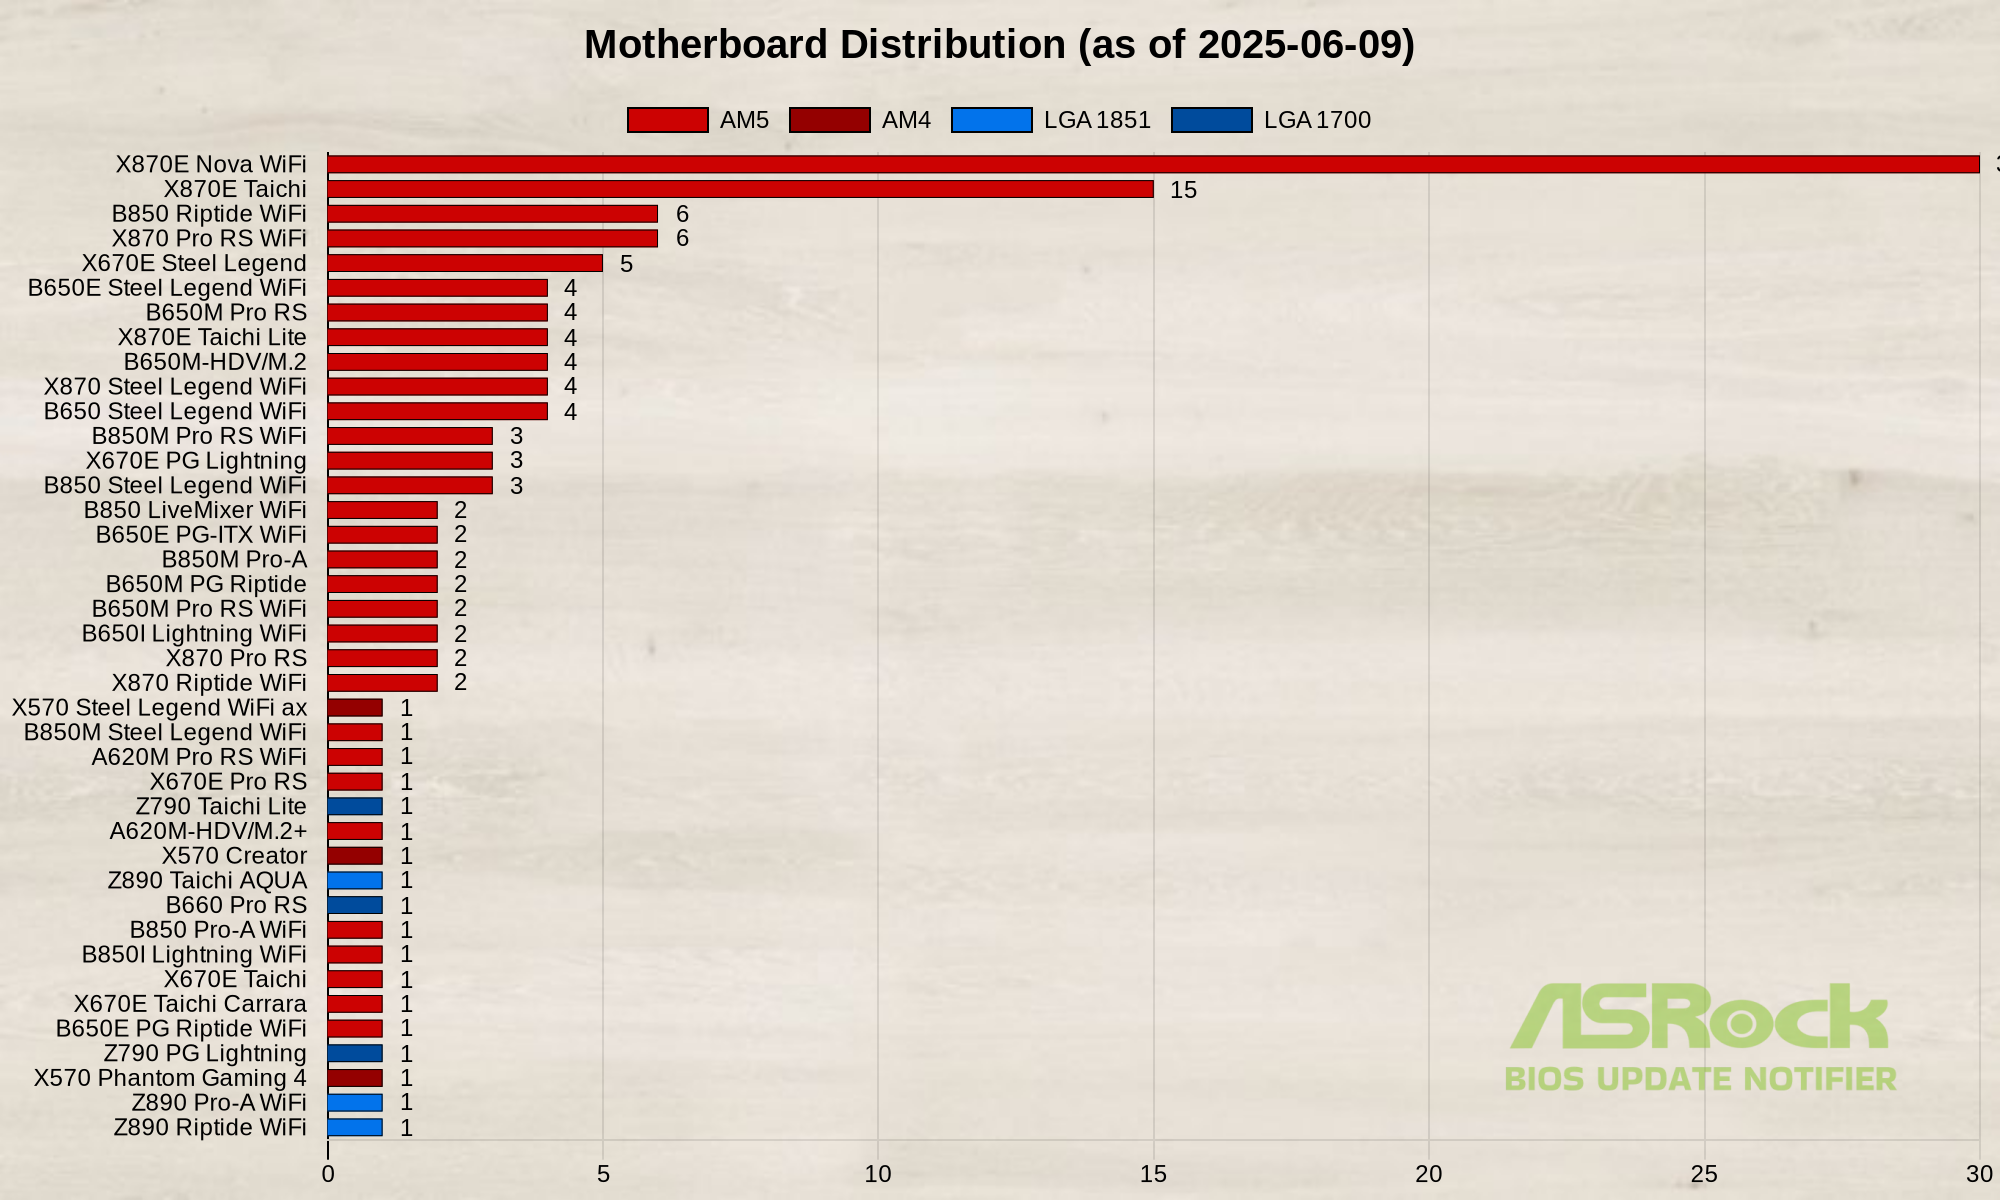
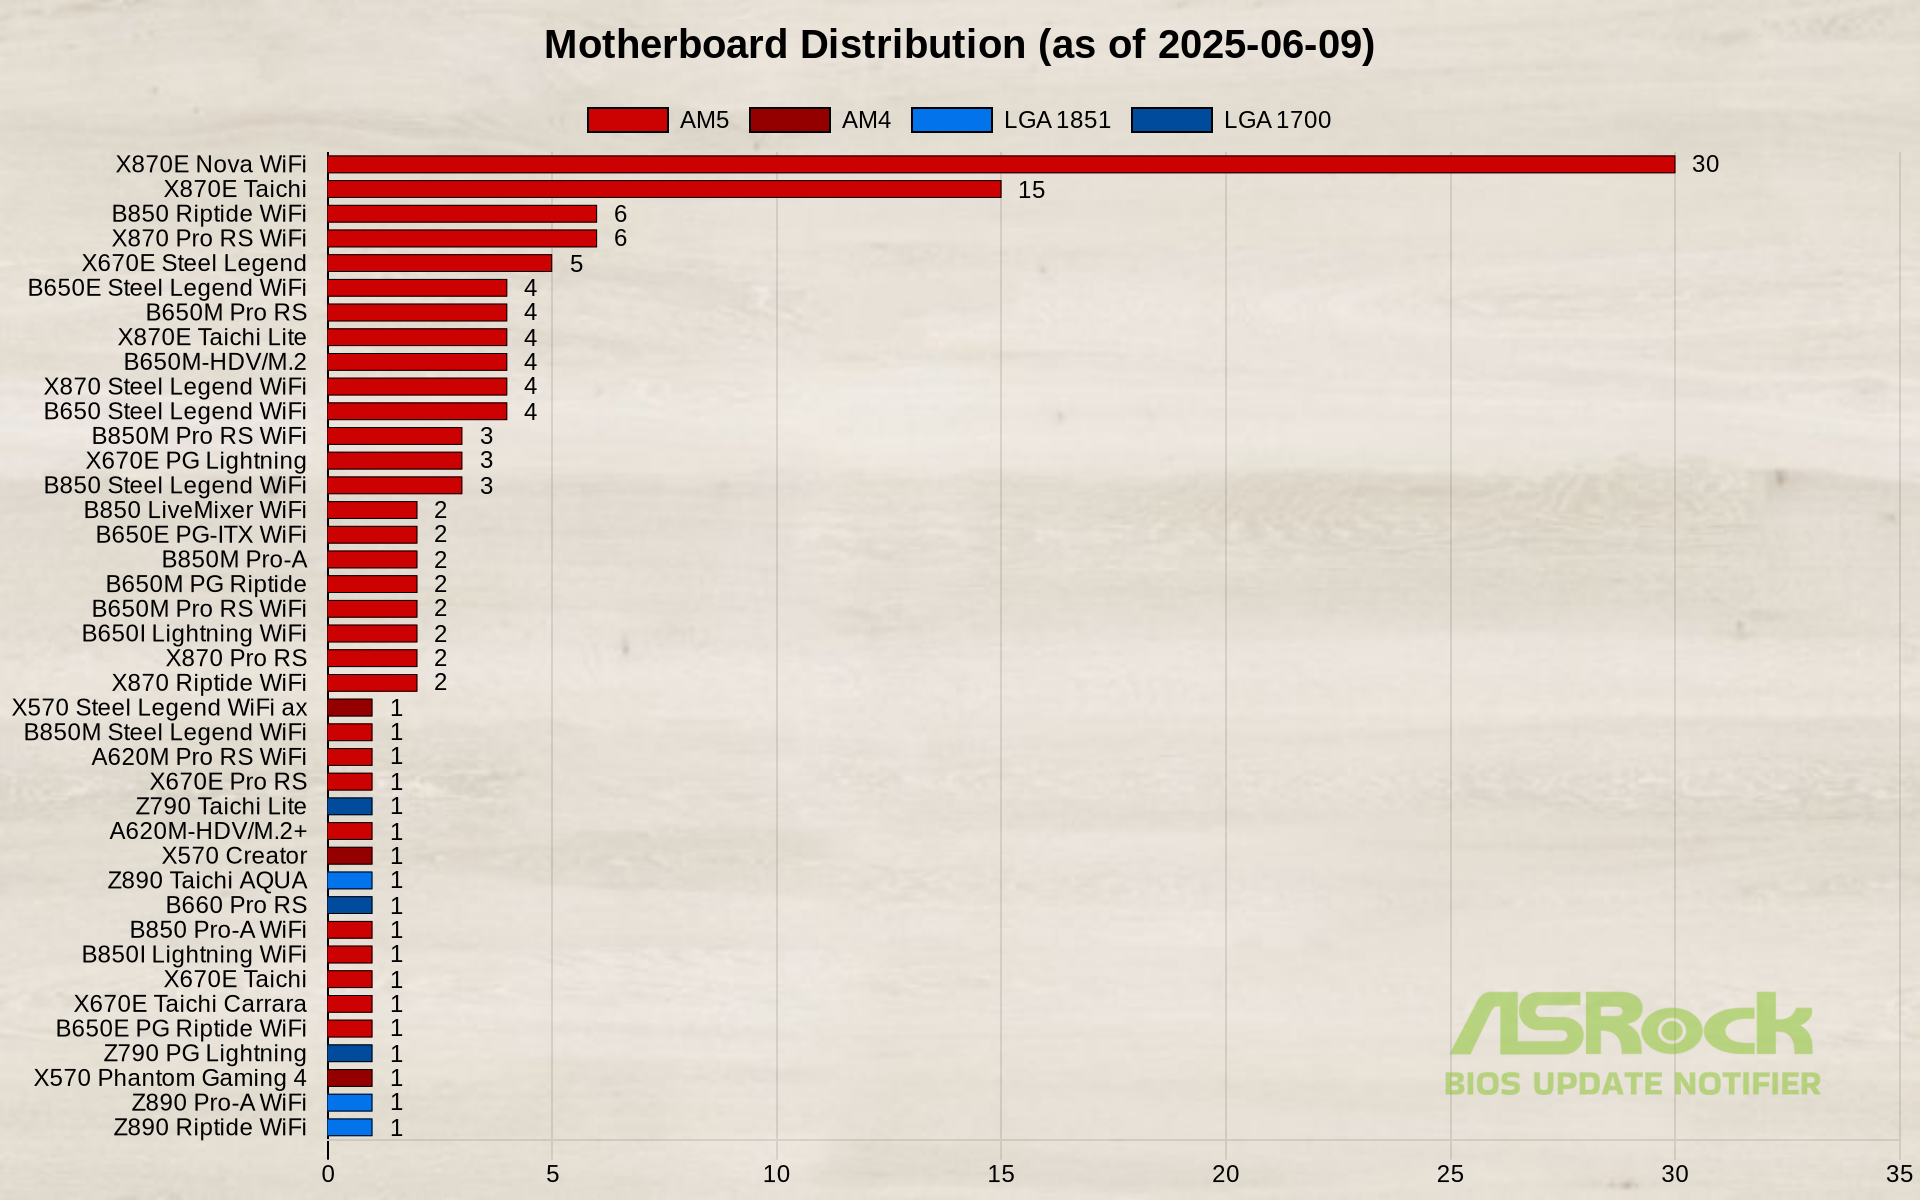
adjust percent padding to 5% (chartMan)

diff --git a/public/js/chartMan.js b/public/js/chartMan.js
@@ -149,7 +149,7 @@ function createMoboBarChart(data) {
   // Determine a suitable suggestedMax for the x-axis
   // This can be a fixed value, or dynamically calculated
   const maxCount = Math.max(...counts);
-  const suggestedXMax = maxCount + (maxCount * 0.15); // Add 15% padding, or
+  const suggestedXMax = maxCount + (maxCount * 0.05); // Add 05% padding, or
   if (suggestedXMax < 10) suggestedXMax = 10; // Ensure a minimum scale for smaller counts
 
   return {
